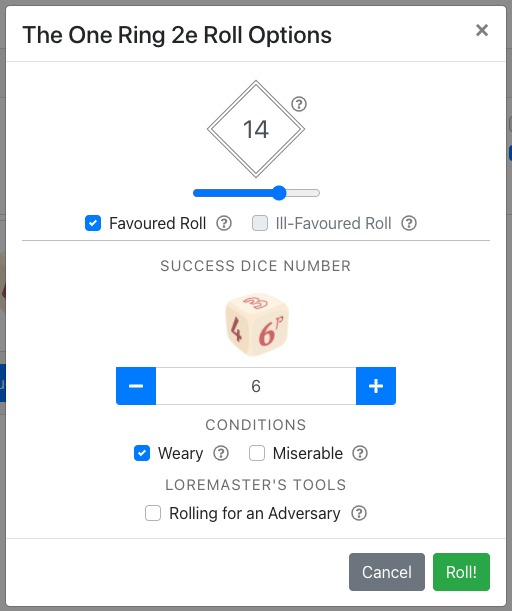
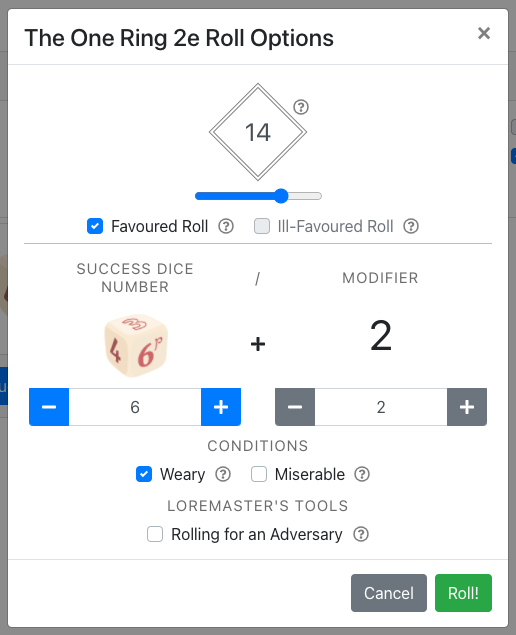
Update version

diff --git a/src/components/torModals/TorModal.module.css b/src/components/torModals/TorModal.module.css
@@ -66,6 +66,10 @@
     align-items: center;
 }
 
+.poolBuilderIcon svg {
+    margin-bottom: 40px;
+}
+
 .failureText {
     color: var(--header-bg-failure);
 }
